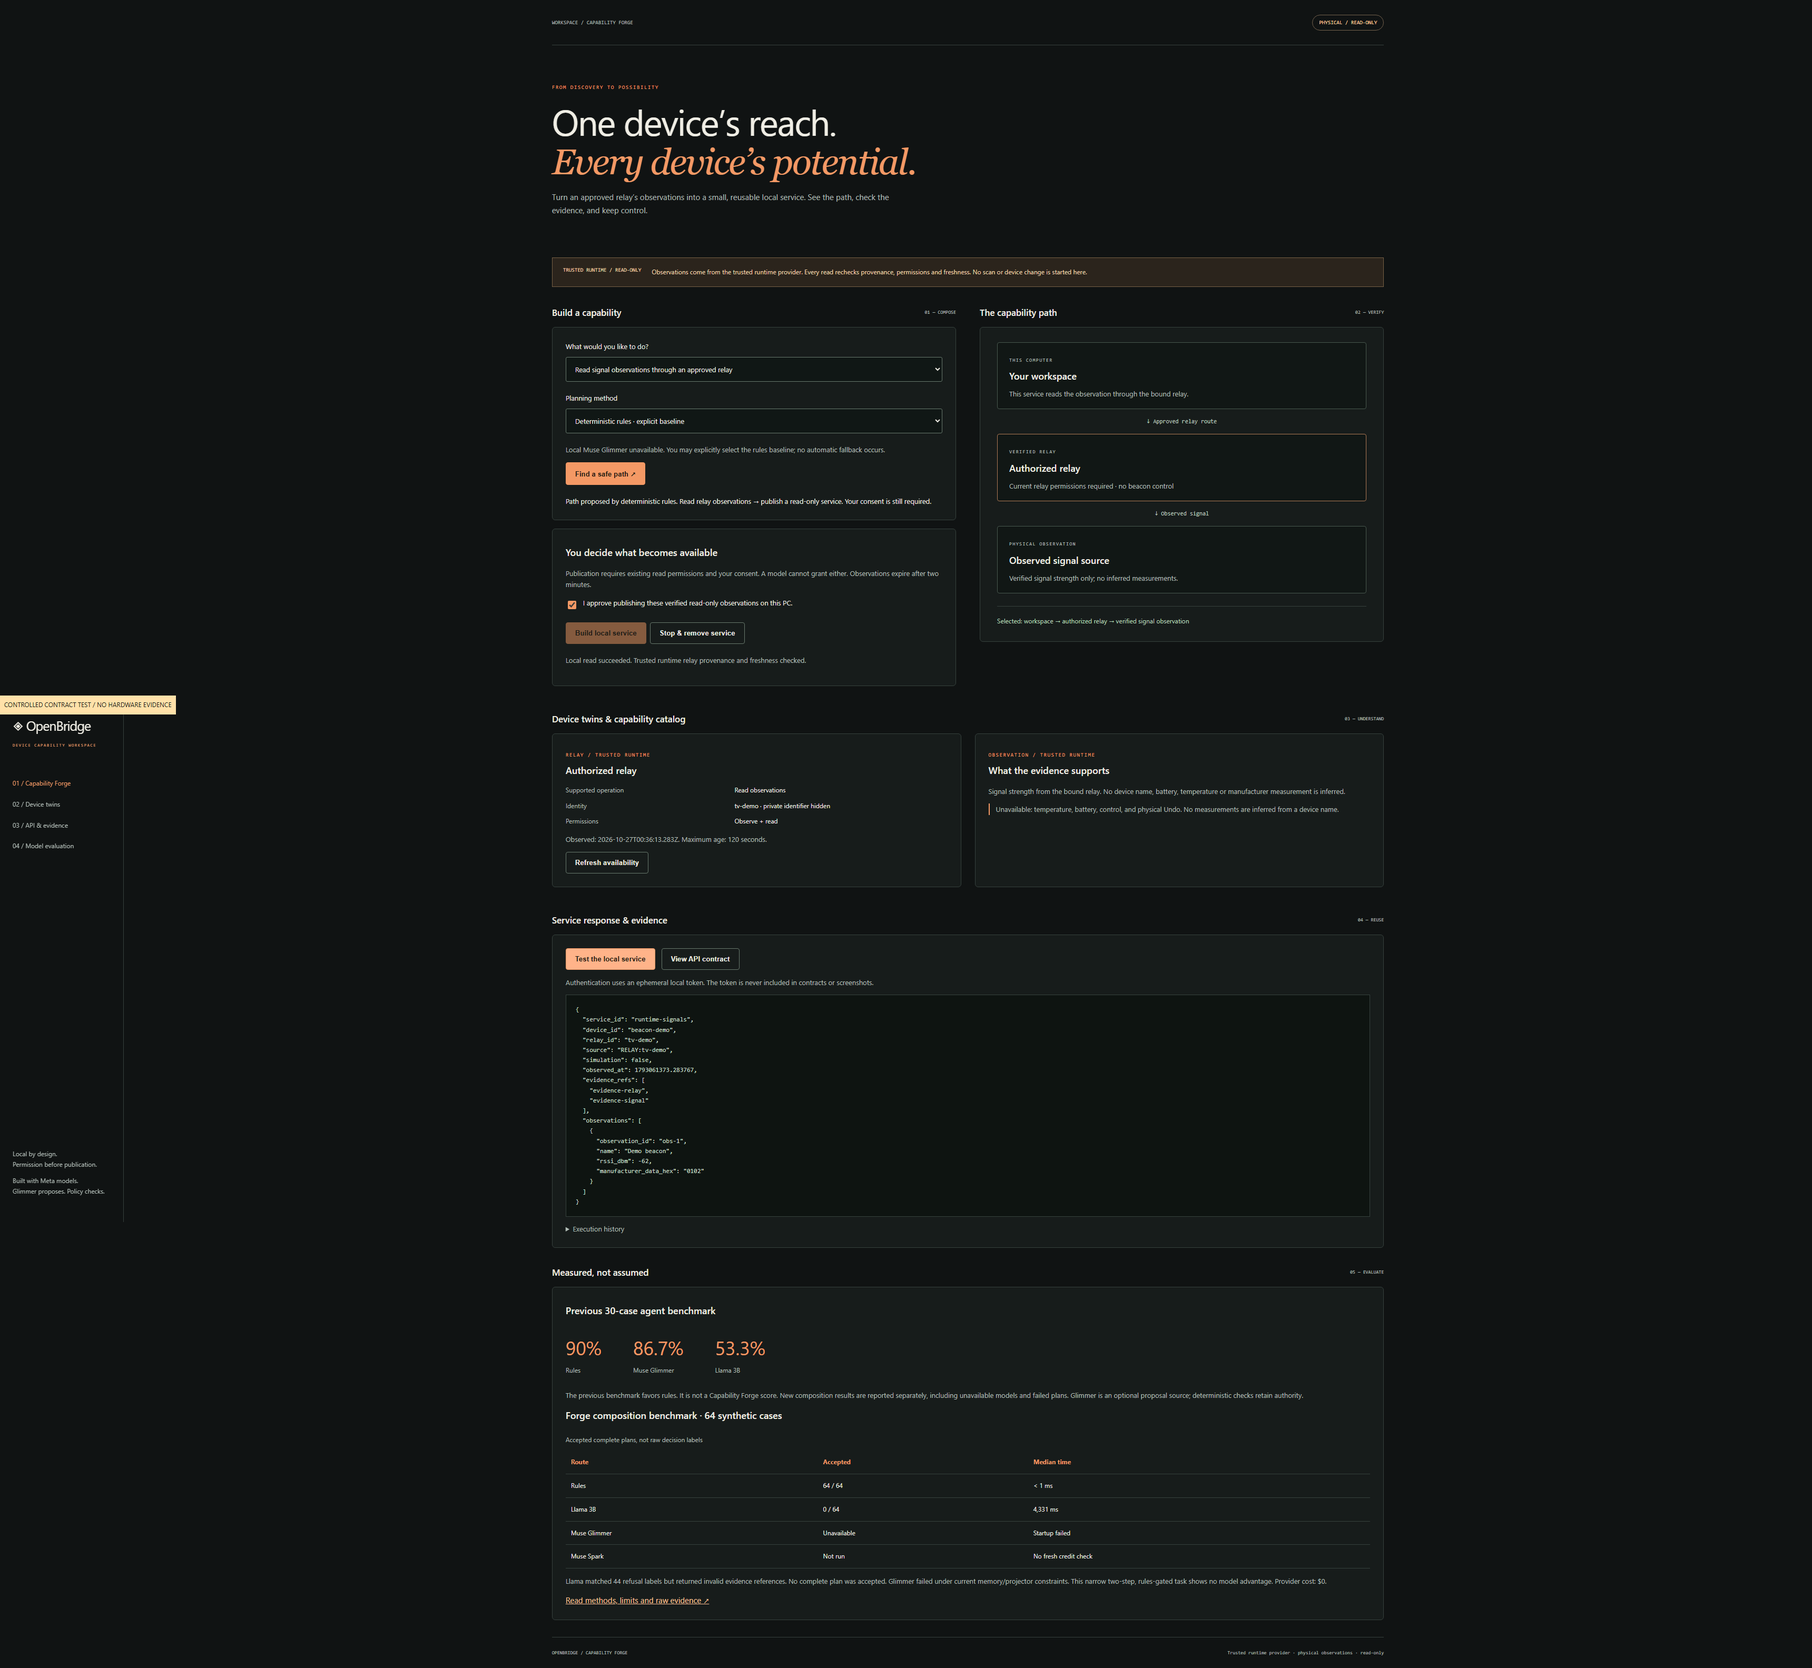
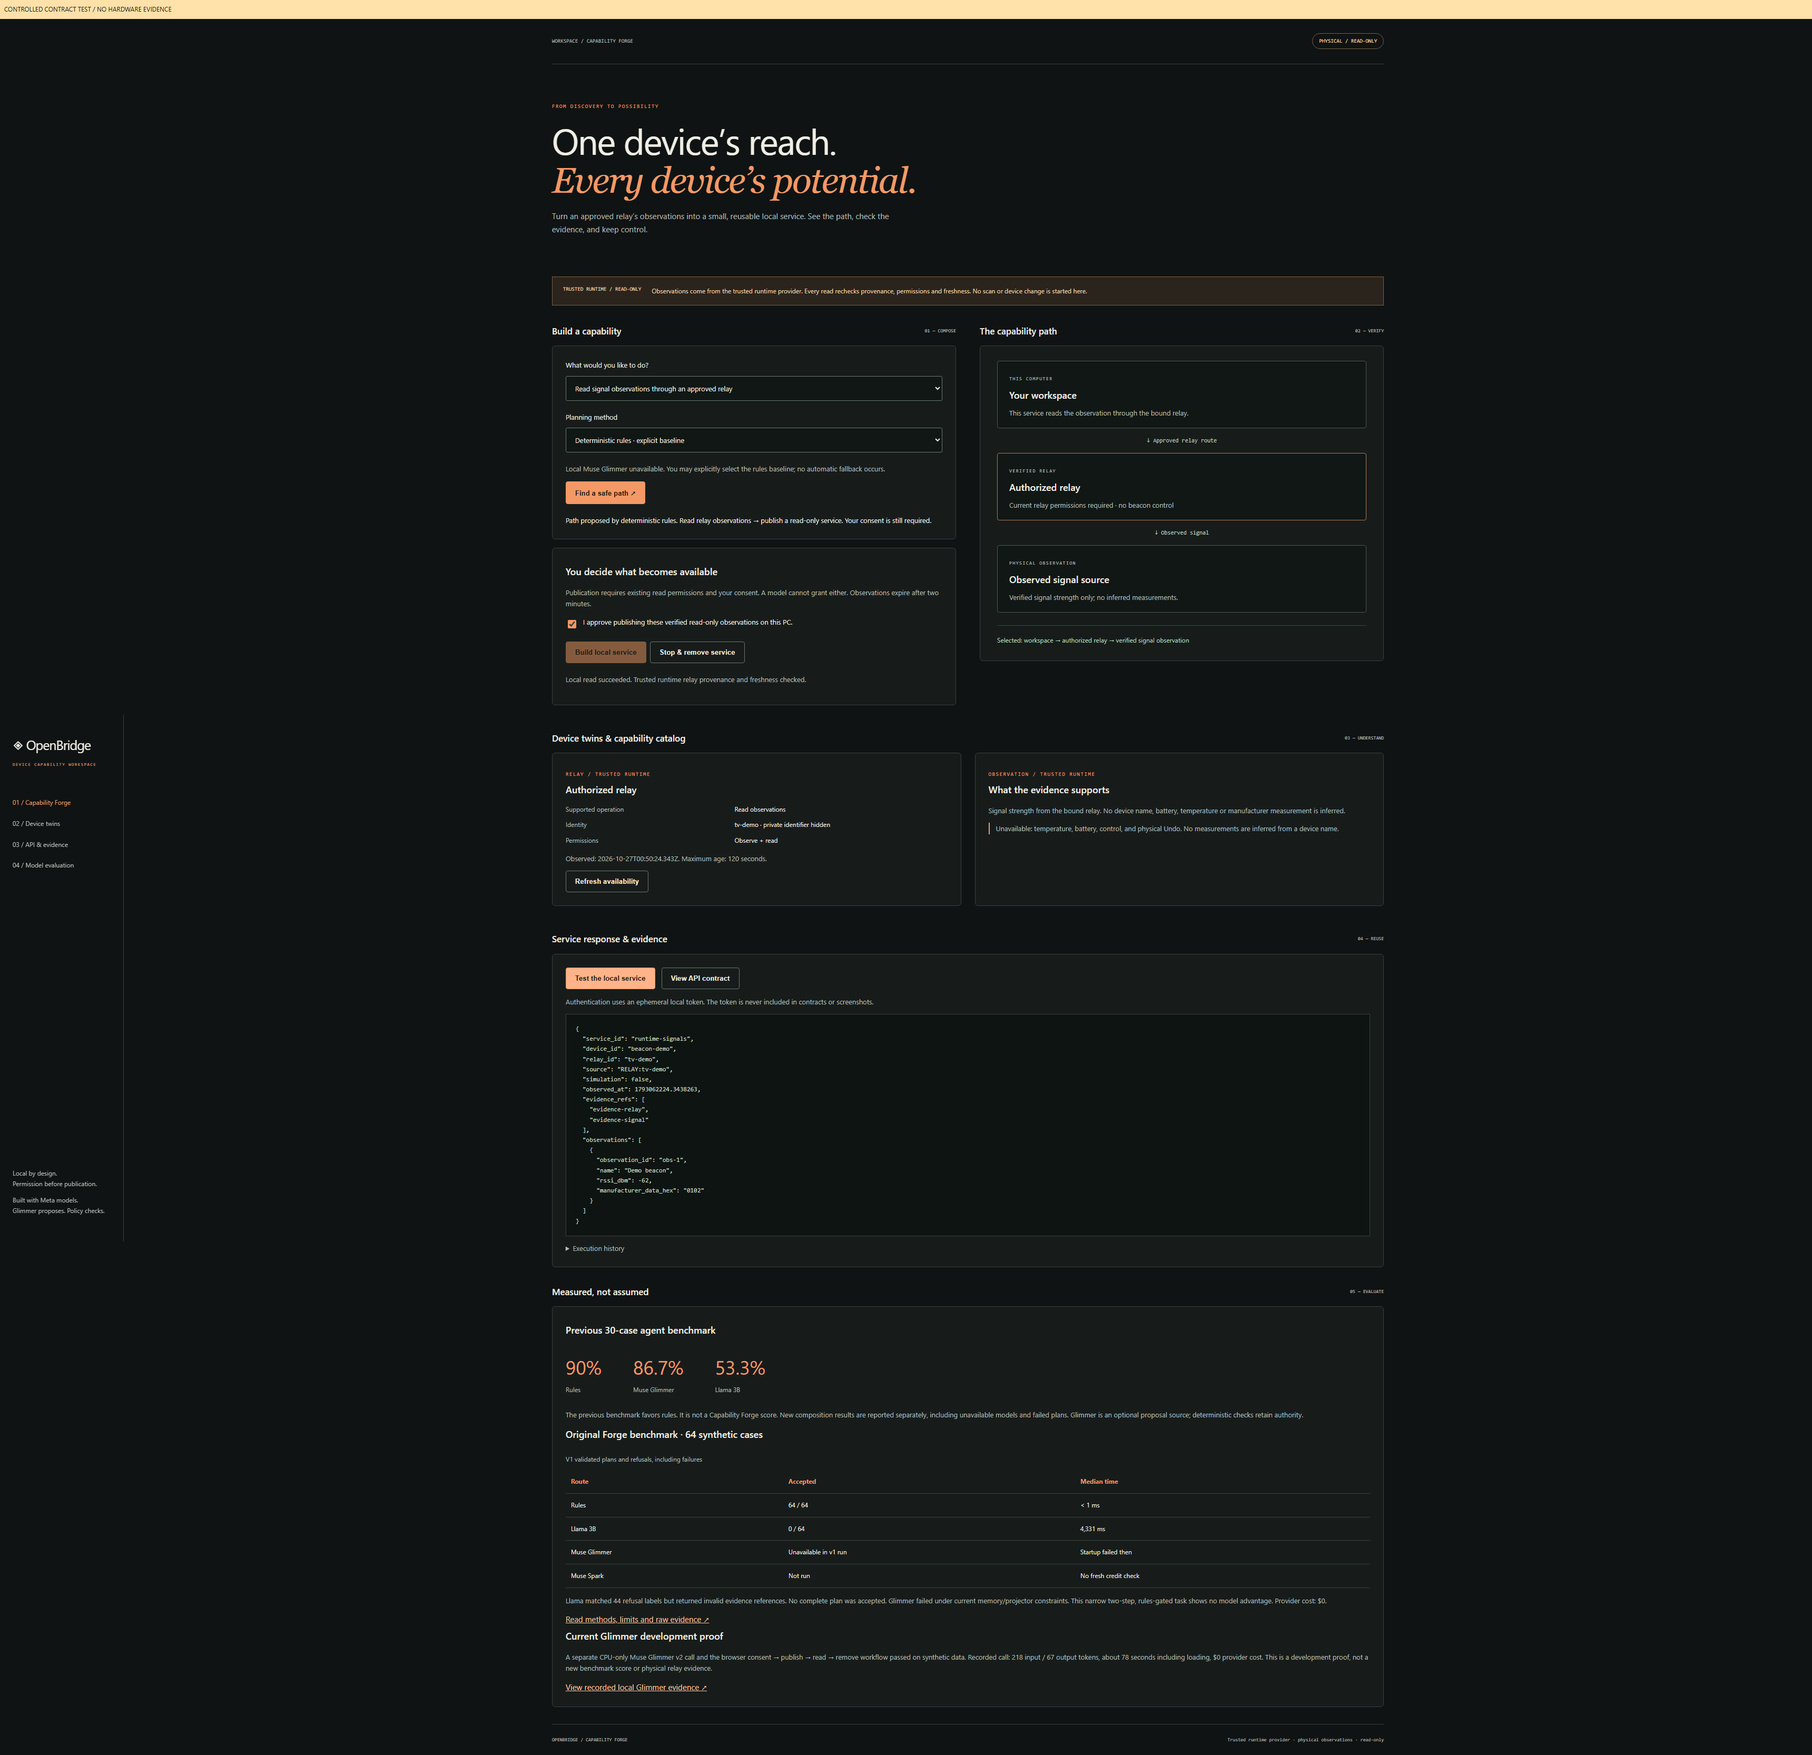
ui: distinguish historical scores and current proof

diff --git a/src/forge/ui/index.html b/src/forge/ui/index.html
@@ -1,1 +1,1 @@
-<!doctype html><html lang="en"><head><meta charset="utf-8"><meta name="viewport" content="width=device-width,initial-scale=1"><title>Capability Forge · OpenBridge</title><link rel="stylesheet" href="/forge.css"><script defer src="/forge.js"></script></head><body><a class="skip" href="#workspace">Skip to workspace</a><div class="shell"><aside><a class="brand" href="/">◈ OpenBridge</a><span class="eyebrow">DEVICE CAPABILITY WORKSPACE</span><nav aria-label="Workspace"><a href="#workspace">01 / Capability Forge</a><a href="#catalog">02 / Device twins</a><a href="#proof">03 / API & evidence</a><a href="#performance">04 / Model evaluation</a></nav><div class="side-note">Local by design.<br>Permission before publication.<p>Built with Meta models.<br>Glimmer proposes. Policy checks.</p></div></aside><main><header><span>WORKSPACE / CAPABILITY FORGE</span><span id="source-pill" class="pill">SIMULATED FIXTURE</span></header><section class="hero"><span class="eyebrow">FROM DISCOVERY TO POSSIBILITY</span><h1>One device’s reach.<br><em>Every device’s potential.</em></h1><p>Turn an approved relay’s observations into a small, reusable local service. See the path, check the evidence, and keep control.</p></section><div class="notice"><strong id="source-mode">SIMULATED / CONTRACT DEMO</strong><span id="source-description">This walkthrough uses synthetic TV and beacon observations. It does not discover, scan or change physical devices.</span></div><section id="workspace" class="workspace"><div><div class="section-title"><h2>Build a capability</h2><span>01 — COMPOSE</span></div><article class="panel"><label for="goal">What would you like to do?</label><select id="goal"><option>Read signal observations through an approved relay</option></select><label for="planner">Planning method</label><select id="planner"><option value="glimmer">Meta Muse Glimmer · local</option><option value="rules">Deterministic rules · explicit baseline</option></select><p id="planner-state" class="muted">Checking local planner availability…</p><button id="plan">Find a safe path ↗</button><div id="plan-result" role="status">No plan has run.</div></article><article class="panel consent"><h3>You decide what becomes available</h3><p>Publication requires existing read permissions and your consent. A model cannot grant either. Observations expire after two minutes.</p><label class="check"><input id="consent" type="checkbox"> <span id="consent-description">I approve publishing this simulated read-only service.</span></label><button id="publish" disabled>Build local service</button><button id="remove" class="secondary" disabled>Stop & remove service</button><p id="operation" role="status">No service has been published.</p></article></div><div><div class="section-title"><h2>The capability path</h2><span>02 — VERIFY</span></div><article class="panel path" id="capability-path" aria-label="Simulated capability path"><div class="node"><span>THIS COMPUTER</span><h3>Your workspace</h3><p id="workspace-detail">No direct beacon observation in this fixture.</p></div><div class="connector" aria-hidden="true">↓ Approved relay route</div><div class="node relay"><span id="relay-label">SIMULATED RELAY</span><h3 id="relay-title">Living-room TV</h3><p id="relay-detail">Observe + read permission · no control grant</p></div><div class="connector" aria-hidden="true">↓ Observed signal</div><div class="node"><span id="target-label">SIMULATED OBSERVATION</span><h3 id="target-title">Nearby beacon</h3><p id="target-detail">Signal strength and raw advertisement only.</p></div><div id="path-state" class="path-state">Path not yet selected</div></article></div></section><section id="catalog"><div class="section-title"><h2>Device twins & capability catalog</h2><span>03 — UNDERSTAND</span></div><div class="cards"><article class="panel"><span id="twin-label" class="eyebrow">TV / SIMULATED</span><h3 id="twin-title">Living-room relay</h3><dl><dt>Supported operation</dt><dd>Read observations</dd><dt>Identity</dt><dd id="twin-identity">tv-demo · fixture-only pseudonym</dd><dt>Permissions</dt><dd>Observe + read</dd></dl><p id="freshness"></p><button id="refresh-source" class="secondary">Refresh availability</button><button id="refresh-fixture" class="secondary">Refresh simulated fixture</button></article><article class="panel"><span id="target-twin-label" class="eyebrow">BEACON / SIMULATED</span><h3>What the evidence supports</h3><p id="supported-facts">Signal strength, advertised name and raw manufacturer bytes.</p><p class="warning">Unavailable: temperature, battery, control, and physical Undo. No measurements are inferred from a device name.</p></article></div></section><section id="proof"><div class="section-title"><h2>Service response & evidence</h2><span>04 — REUSE</span></div><article class="panel"><div class="actions"><button id="test" disabled>Test the local service</button><button id="documents" class="secondary" disabled>View API contract</button></div><p>Authentication uses an ephemeral local token. The token is never included in contracts or screenshots.</p><pre id="output" tabindex="0" aria-label="Service response">No response yet.</pre><details><summary>Execution history</summary><pre id="history">No activity yet.</pre></details></article></section><section id="performance"><div class="section-title"><h2>Measured, not assumed</h2><span>05 — EVALUATE</span></div><article class="panel"><h3>Previous 30-case agent benchmark</h3><div class="metrics"><div><b>90%</b><span>Rules</span></div><div><b>86.7%</b><span>Muse Glimmer</span></div><div><b>53.3%</b><span>Llama 3B</span></div></div><p>The previous benchmark favors rules. It is not a Capability Forge score. New composition results are reported separately, including unavailable models and failed plans. Glimmer is an optional proposal source; deterministic checks retain authority.</p><h3>Forge composition benchmark · 64 synthetic cases</h3><div class="table-scroll"><table><caption>Accepted complete plans, not raw decision labels</caption><thead><tr><th>Route</th><th>Accepted</th><th>Median time</th></tr></thead><tbody><tr><td>Rules</td><td>64 / 64</td><td>&lt; 1 ms</td></tr><tr><td>Llama 3B</td><td>0 / 64</td><td>4,331 ms</td></tr><tr><td>Muse Glimmer</td><td>Unavailable</td><td>Startup failed</td></tr><tr><td>Muse Spark</td><td>Not run</td><td>No fresh credit check</td></tr></tbody></table></div><p>Llama matched 44 refusal labels but returned invalid evidence references. No complete plan was accepted. Glimmer failed under current memory/projector constraints. This narrow two-step, rules-gated task shows no model advantage. Provider cost: $0.</p><a href="https://github.com/toskaman/openbridge/blob/feat/capability-forge/docs/forge/MODEL_ABLATION_RESULTS.md">Read methods, limits and raw evidence ↗</a></article></section><footer>OPENBRIDGE / CAPABILITY FORGE <span id="source-footer">Independent integration preview · no physical relay proof claimed</span></footer></main></div></body></html>
+<!doctype html><html lang="en"><head><meta charset="utf-8"><meta name="viewport" content="width=device-width,initial-scale=1"><title>Capability Forge · OpenBridge</title><link rel="stylesheet" href="/forge.css"><script defer src="/forge.js"></script></head><body><a class="skip" href="#workspace">Skip to workspace</a><div class="shell"><aside><a class="brand" href="/">◈ OpenBridge</a><span class="eyebrow">DEVICE CAPABILITY WORKSPACE</span><nav aria-label="Workspace"><a href="#workspace">01 / Capability Forge</a><a href="#catalog">02 / Device twins</a><a href="#proof">03 / API & evidence</a><a href="#performance">04 / Model evaluation</a></nav><div class="side-note">Local by design.<br>Permission before publication.<p>Built with Meta models.<br>Glimmer proposes. Policy checks.</p></div></aside><main><header><span>WORKSPACE / CAPABILITY FORGE</span><span id="source-pill" class="pill">SIMULATED FIXTURE</span></header><section class="hero"><span class="eyebrow">FROM DISCOVERY TO POSSIBILITY</span><h1>One device’s reach.<br><em>Every device’s potential.</em></h1><p>Turn an approved relay’s observations into a small, reusable local service. See the path, check the evidence, and keep control.</p></section><div class="notice"><strong id="source-mode">SIMULATED / CONTRACT DEMO</strong><span id="source-description">This walkthrough uses synthetic TV and beacon observations. It does not discover, scan or change physical devices.</span></div><section id="workspace" class="workspace"><div><div class="section-title"><h2>Build a capability</h2><span>01 — COMPOSE</span></div><article class="panel"><label for="goal">What would you like to do?</label><select id="goal"><option>Read signal observations through an approved relay</option></select><label for="planner">Planning method</label><select id="planner"><option value="glimmer">Meta Muse Glimmer · local</option><option value="rules">Deterministic rules · explicit baseline</option></select><p id="planner-state" class="muted">Checking local planner availability…</p><button id="plan">Find a safe path ↗</button><div id="plan-result" role="status">No plan has run.</div></article><article class="panel consent"><h3>You decide what becomes available</h3><p>Publication requires existing read permissions and your consent. A model cannot grant either. Observations expire after two minutes.</p><label class="check"><input id="consent" type="checkbox"> <span id="consent-description">I approve publishing this simulated read-only service.</span></label><button id="publish" disabled>Build local service</button><button id="remove" class="secondary" disabled>Stop & remove service</button><p id="operation" role="status">No service has been published.</p></article></div><div><div class="section-title"><h2>The capability path</h2><span>02 — VERIFY</span></div><article class="panel path" id="capability-path" aria-label="Simulated capability path"><div class="node"><span>THIS COMPUTER</span><h3>Your workspace</h3><p id="workspace-detail">No direct beacon observation in this fixture.</p></div><div class="connector" aria-hidden="true">↓ Approved relay route</div><div class="node relay"><span id="relay-label">SIMULATED RELAY</span><h3 id="relay-title">Living-room TV</h3><p id="relay-detail">Observe + read permission · no control grant</p></div><div class="connector" aria-hidden="true">↓ Observed signal</div><div class="node"><span id="target-label">SIMULATED OBSERVATION</span><h3 id="target-title">Nearby beacon</h3><p id="target-detail">Signal strength and raw advertisement only.</p></div><div id="path-state" class="path-state">Path not yet selected</div></article></div></section><section id="catalog"><div class="section-title"><h2>Device twins & capability catalog</h2><span>03 — UNDERSTAND</span></div><div class="cards"><article class="panel"><span id="twin-label" class="eyebrow">TV / SIMULATED</span><h3 id="twin-title">Living-room relay</h3><dl><dt>Supported operation</dt><dd>Read observations</dd><dt>Identity</dt><dd id="twin-identity">tv-demo · fixture-only pseudonym</dd><dt>Permissions</dt><dd>Observe + read</dd></dl><p id="freshness"></p><button id="refresh-source" class="secondary">Refresh availability</button><button id="refresh-fixture" class="secondary">Refresh simulated fixture</button></article><article class="panel"><span id="target-twin-label" class="eyebrow">BEACON / SIMULATED</span><h3>What the evidence supports</h3><p id="supported-facts">Signal strength, advertised name and raw manufacturer bytes.</p><p class="warning">Unavailable: temperature, battery, control, and physical Undo. No measurements are inferred from a device name.</p></article></div></section><section id="proof"><div class="section-title"><h2>Service response & evidence</h2><span>04 — REUSE</span></div><article class="panel"><div class="actions"><button id="test" disabled>Test the local service</button><button id="documents" class="secondary" disabled>View API contract</button></div><p>Authentication uses an ephemeral local token. The token is never included in contracts or screenshots.</p><pre id="output" tabindex="0" aria-label="Service response">No response yet.</pre><details><summary>Execution history</summary><pre id="history">No activity yet.</pre></details></article></section><section id="performance"><div class="section-title"><h2>Measured, not assumed</h2><span>05 — EVALUATE</span></div><article class="panel"><h3>Previous 30-case agent benchmark</h3><div class="metrics"><div><b>90%</b><span>Rules</span></div><div><b>86.7%</b><span>Muse Glimmer</span></div><div><b>53.3%</b><span>Llama 3B</span></div></div><p>The previous benchmark favors rules. It is not a Capability Forge score. New composition results are reported separately, including unavailable models and failed plans. Glimmer is an optional proposal source; deterministic checks retain authority.</p><h3>Original Forge benchmark · 64 synthetic cases</h3><div class="table-scroll"><table><caption>V1 validated plans and refusals, including failures</caption><thead><tr><th>Route</th><th>Accepted</th><th>Median time</th></tr></thead><tbody><tr><td>Rules</td><td>64 / 64</td><td>&lt; 1 ms</td></tr><tr><td>Llama 3B</td><td>0 / 64</td><td>4,331 ms</td></tr><tr><td>Muse Glimmer</td><td>Unavailable in v1 run</td><td>Startup failed then</td></tr><tr><td>Muse Spark</td><td>Not run</td><td>No fresh credit check</td></tr></tbody></table></div><p>Llama matched 44 refusal labels but returned invalid evidence references. No complete plan was accepted. Glimmer failed under current memory/projector constraints. This narrow two-step, rules-gated task shows no model advantage. Provider cost: $0.</p><a href="https://github.com/toskaman/openbridge/blob/feat/capability-forge/docs/forge/MODEL_ABLATION_RESULTS.md">Read methods, limits and raw evidence ↗</a><h3>Current Glimmer development proof</h3><p>A separate CPU-only Muse Glimmer v2 call and the browser consent → publish → read → remove workflow passed on synthetic data. Recorded call: 218 input / 67 output tokens, about 78 seconds including loading, $0 provider cost. This is a development proof, not a new benchmark score or physical relay evidence.</p><a href="https://github.com/toskaman/openbridge/blob/feat/capability-forge/docs/forge/live-glimmer-browser-receipt.json">View recorded local Glimmer evidence ↗</a></article></section><footer>OPENBRIDGE / CAPABILITY FORGE <span id="source-footer">Independent integration preview · no physical relay proof claimed</span></footer></main></div></body></html>

diff --git a/tests/e2e/forge_runtime_smoke.py b/tests/e2e/forge_runtime_smoke.py
@@ -18,7 +18,7 @@ def main():
     provider.current['available']=True
     page=browser.new_page(viewport={'width':width,'height':1000});errors=[];page.on('pageerror',lambda e:errors.append(str(e)))
     page.goto(f'http://127.0.0.1:{server.server_port}',wait_until='networkidle')
-    page.evaluate("""()=>{const p=document.createElement('p');p.textContent='CONTROLLED CONTRACT TEST / NO HARDWARE EVIDENCE';Object.assign(p.style,{position:'fixed',top:'0',left:'0',margin:'0',padding:'8px',background:'#ffe1a9',color:'#151812',zIndex:'9999',fontSize:'12px'});document.body.append(p)}""")
+    page.evaluate("""()=>{const p=document.createElement('p');p.textContent='CONTROLLED CONTRACT TEST / NO HARDWARE EVIDENCE';Object.assign(p.style,{position:'static',margin:'0',padding:'8px',background:'#ffe1a9',color:'#151812',zIndex:'9999',fontSize:'12px'});document.body.prepend(p)}""")
     expect(page.locator('#source-pill')).to_have_text('PHYSICAL / READ-ONLY')
     assert page.locator('#refresh-fixture').is_hidden()
     assert 'Living-room TV' not in page.locator('#relay-title').inner_text()
